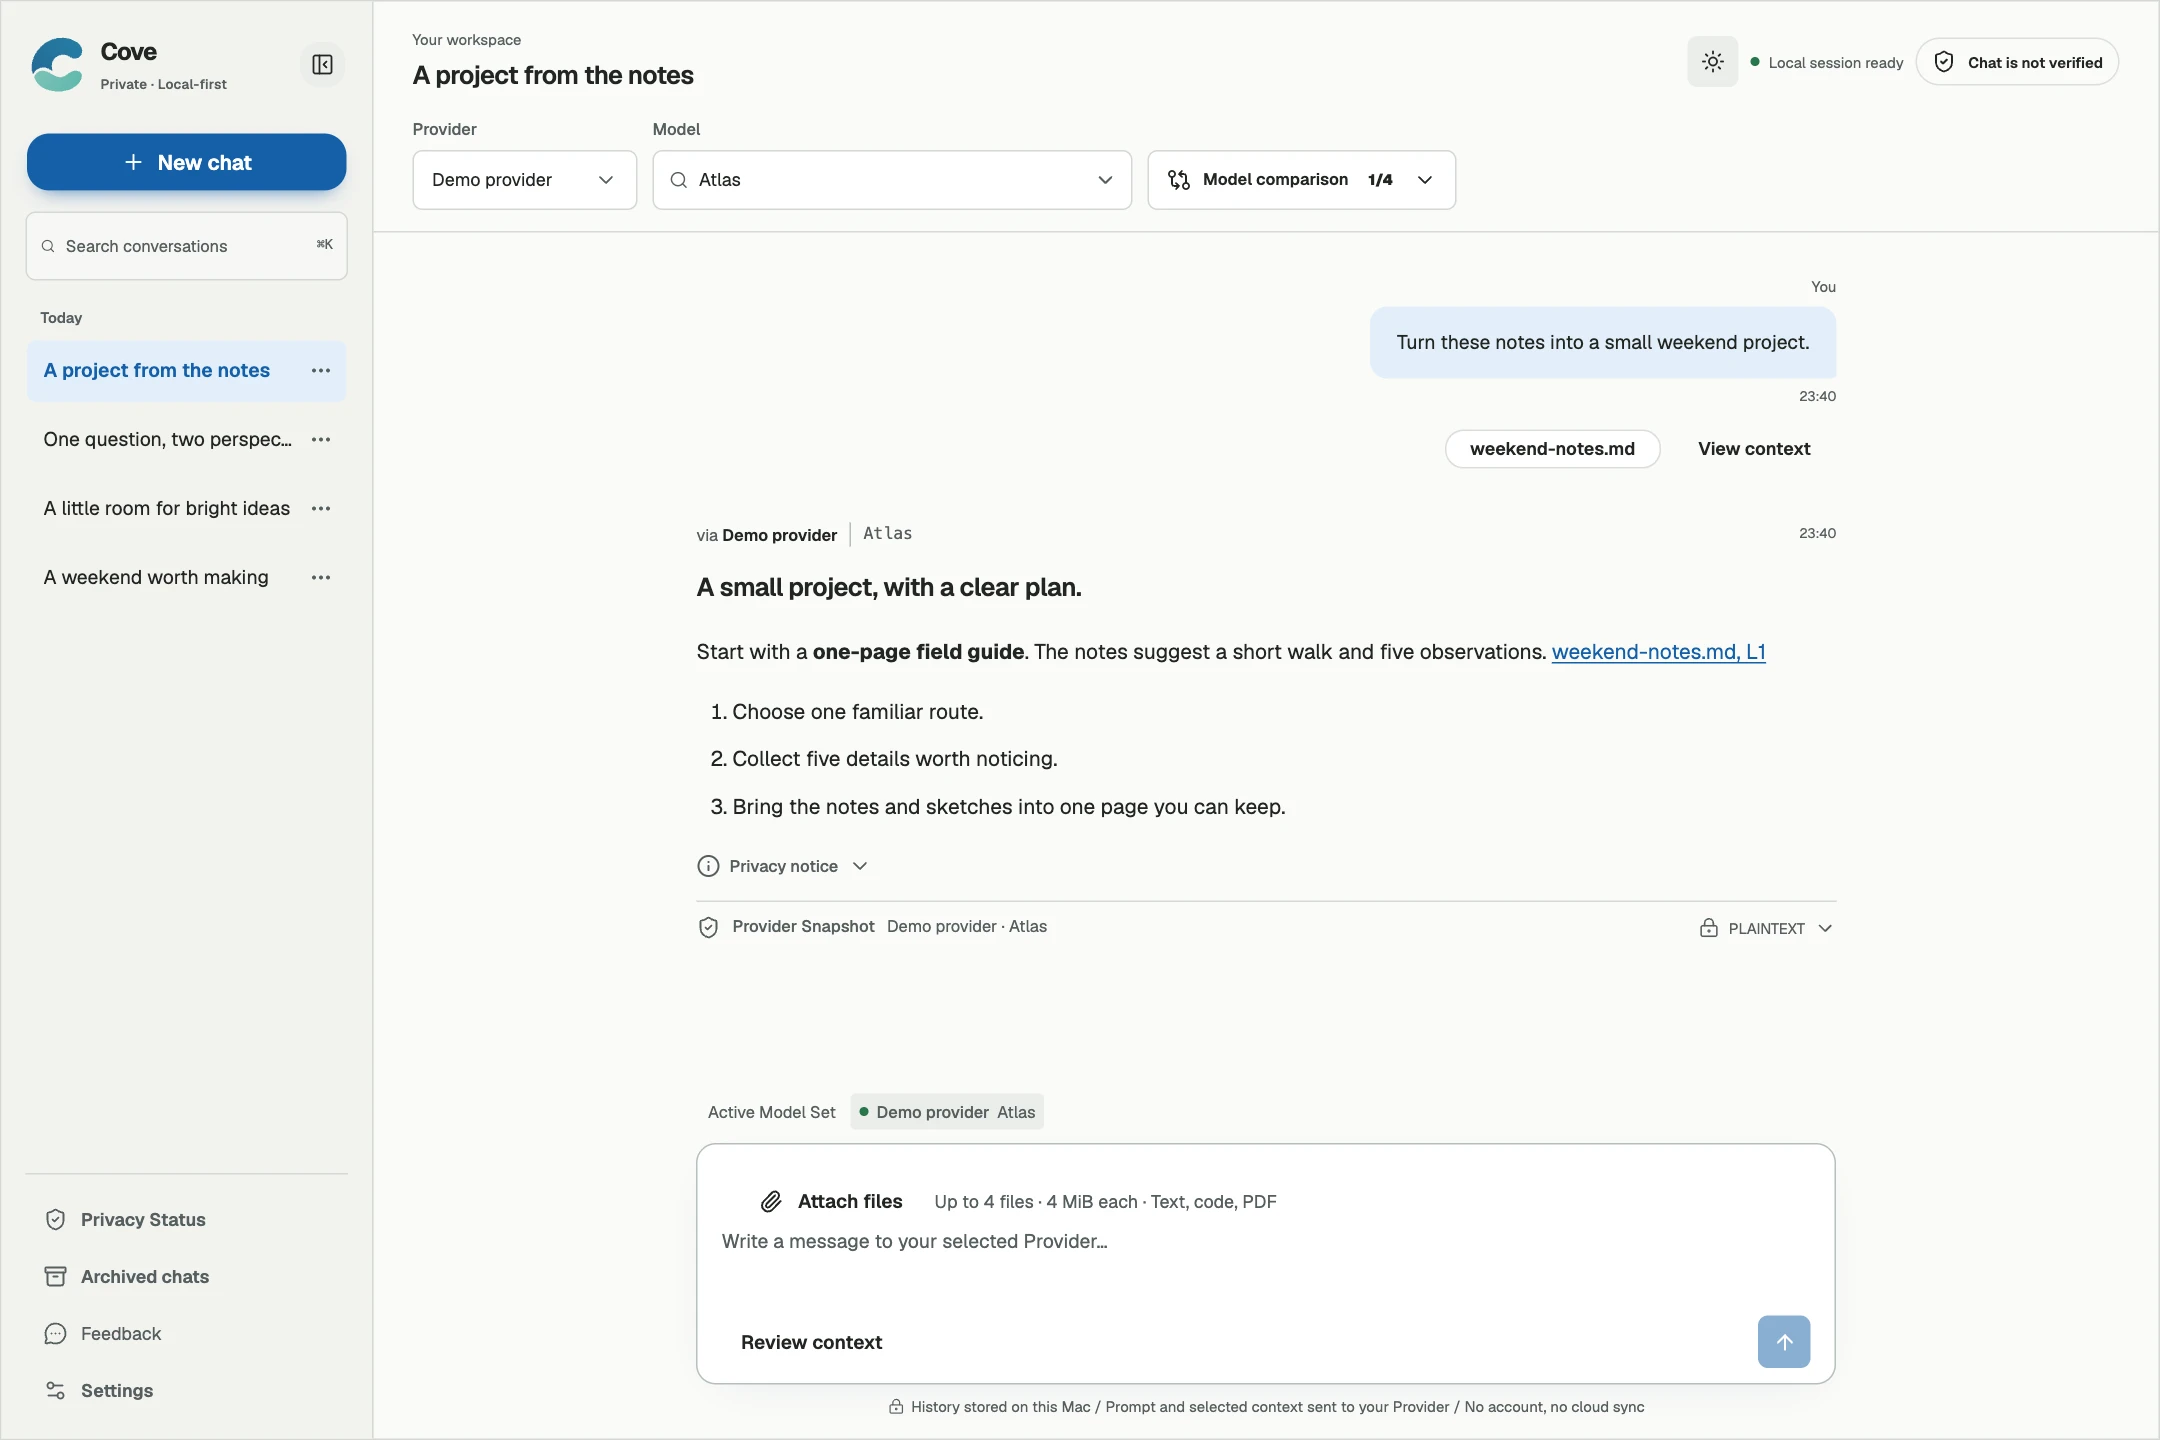
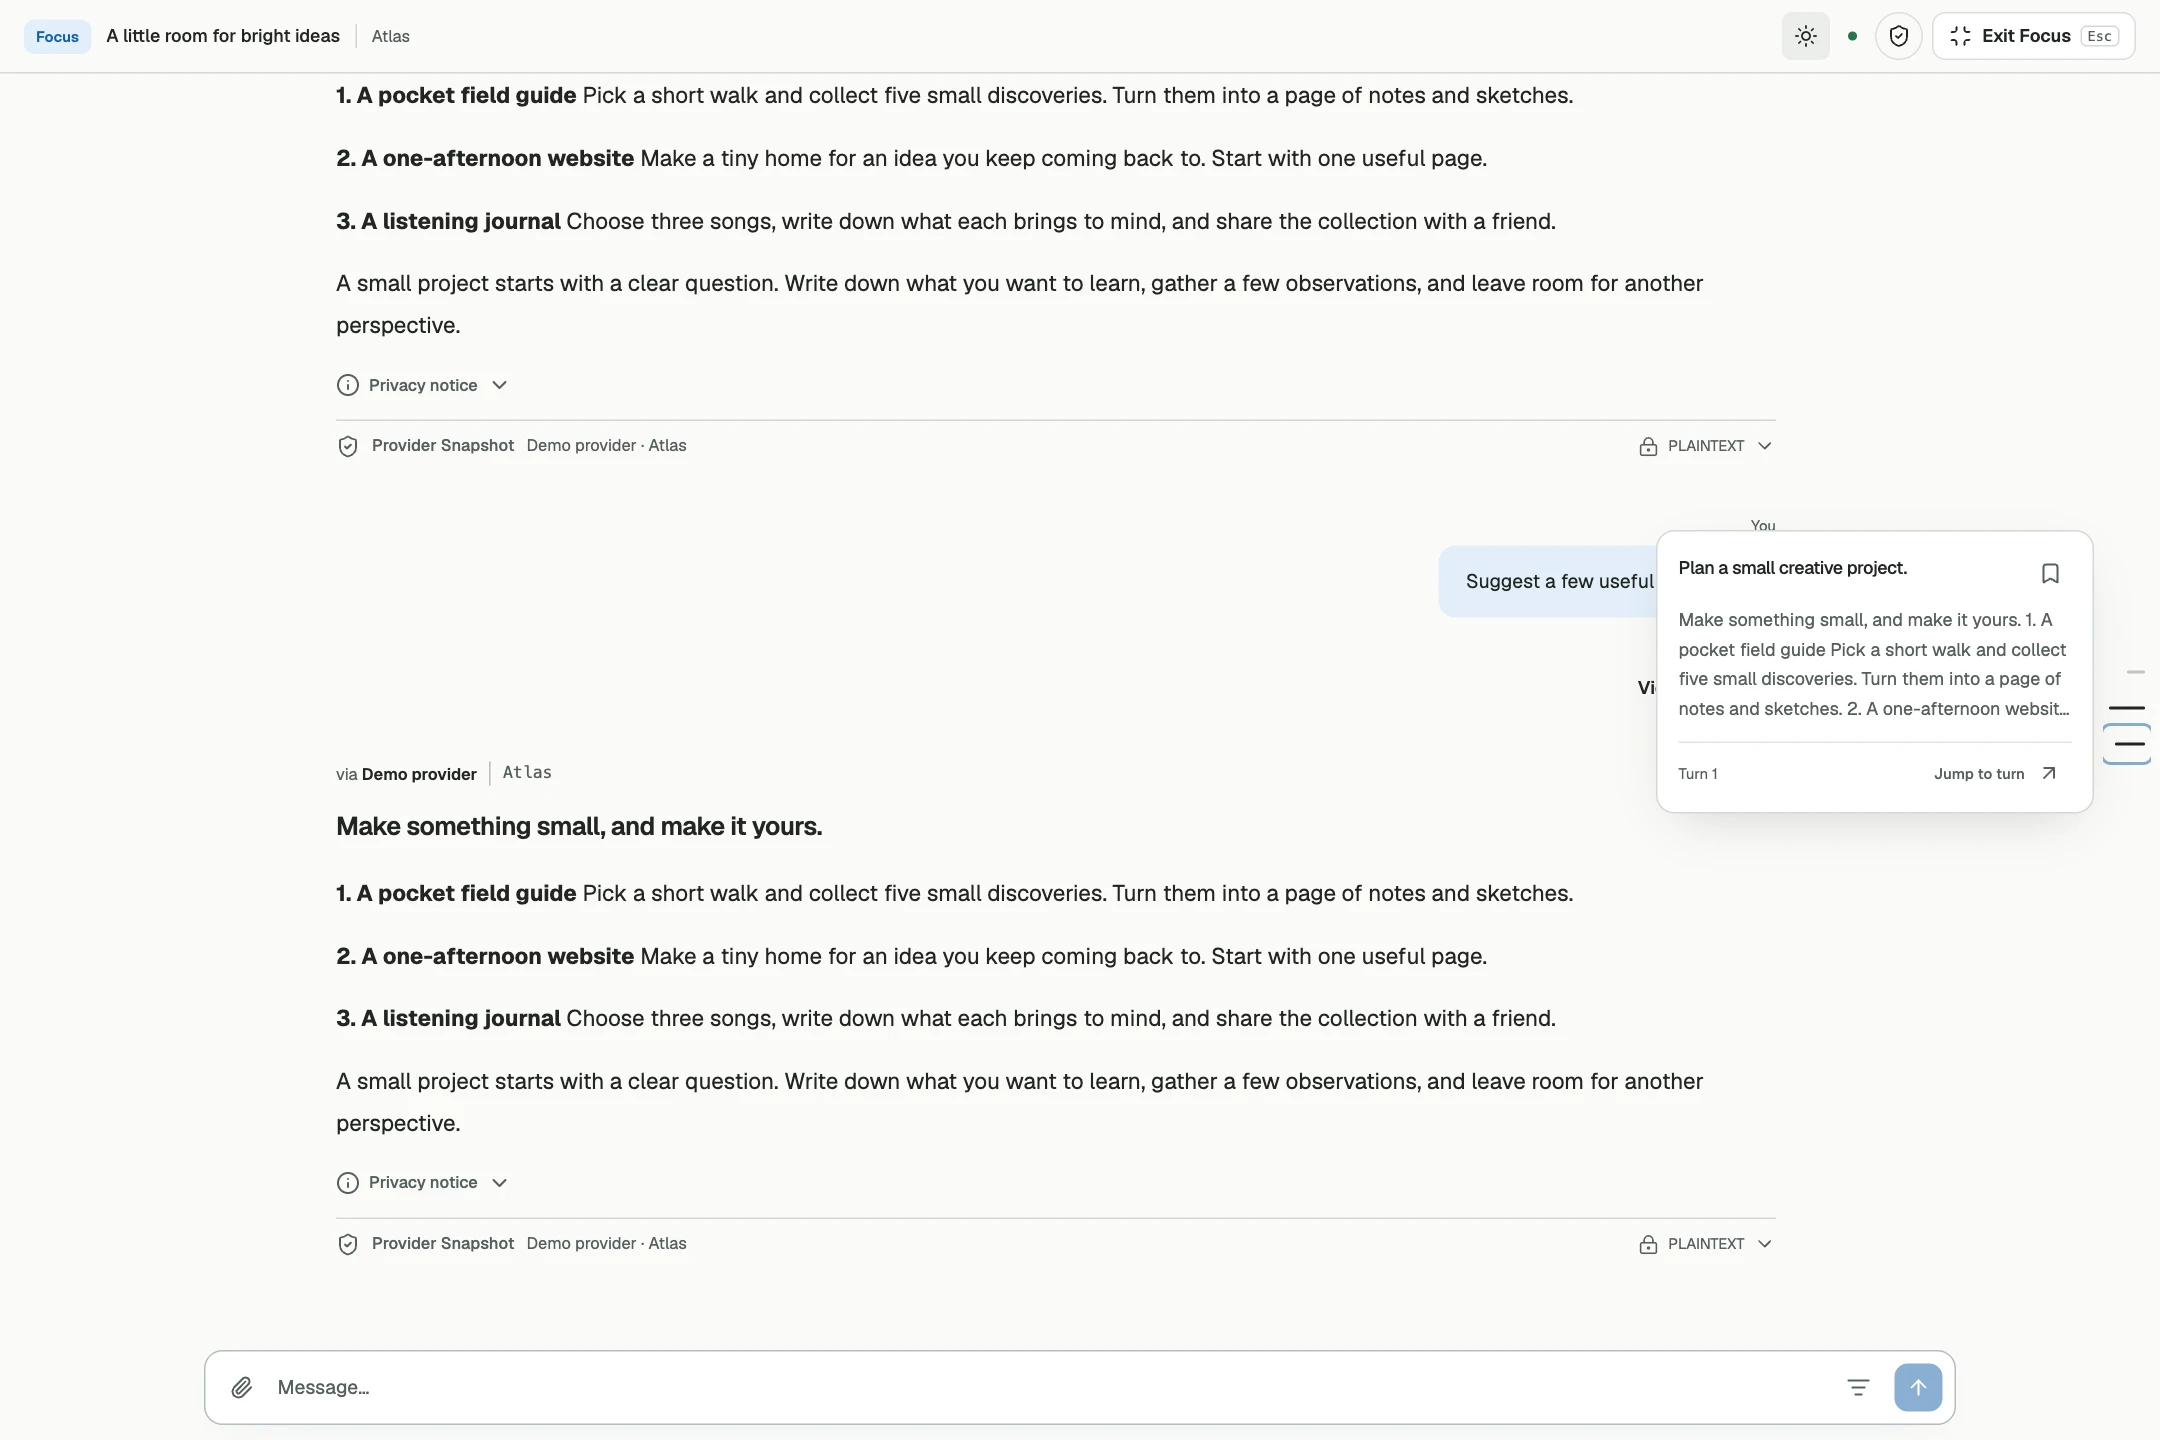
docs: refresh Cove profile for Beta 3

diff --git a/design/cove/index.html b/design/cove/index.html
@@ -17,7 +17,7 @@
     h1 { font-size: 59px; line-height: 1.08; letter-spacing: -.06em; margin: 22px 0; font-weight: 650; }
     h1 span { color: #5b799a; }
     .copy p { font-size: 16px; line-height: 1.65; color: #586b78; }
-    .workspace { position: absolute; left: 557px; top: 119px; width: 940px; margin: 0; border: 1px solid #d2dce4; border-radius: 14px; overflow: hidden; box-shadow: 0 25px 60px #345c7a20; transform: rotate(-5deg); background: #fff; }
+    .workspace { position: absolute; left: 555px; top: 150px; width: 640px; margin: 0; border: 1px solid #d2dce4; border-radius: 14px; overflow: hidden; box-shadow: 0 25px 60px #345c7a20; transform: rotate(-3deg); background: #fff; }
     .workspace img { display: block; width: 100%; height: auto; }
     .requirements { position: absolute; left: 60px; bottom: 43px; margin: 0; color: #586b78; font-size: 11px; }
   </style>
@@ -26,12 +26,12 @@
   <main>
     <img class="logo" src="logo.png" width="2172" height="724" alt="Cove">
     <div class="copy">
-      <span class="badge">Public beta 2 · Now with file chat</span>
+      <span class="badge">Public beta 3 · Focus and bookmarks</span>
       <h1>A little more room<br><span>for your AI.</span></h1>
       <p>Your models. Your sources.<br>A workspace of your own.</p>
     </div>
-    <figure class="workspace"><img src="workspace.webp" width="2160" height="1440" alt="Actual Cove Beta 2 file chat, using sample source notes and a simulated reply."></figure>
-    <p class="requirements">0.1.0-beta.2 &nbsp;·&nbsp; Apple Silicon &nbsp;·&nbsp; macOS 13+</p>
+    <figure class="workspace"><img src="workspace.webp" width="2160" height="1440" alt="Actual Cove Focus mode, with timeline previews and synthetic conversation content."></figure>
+    <p class="requirements">0.1.0-beta.3 &nbsp;·&nbsp; Apple Silicon &nbsp;·&nbsp; macOS 13+</p>
   </main>
 </body>
 </html>

diff --git a/profile/README.md b/profile/README.md
@@ -5,7 +5,7 @@
 <p align="center">
   <a href="https://tokenfunplus.github.io/"><b>Website</b></a> &nbsp;·&nbsp;
   <a href="#what-were-building"><b>Our projects</b></a> &nbsp;·&nbsp;
-  <a href="https://github.com/tokenfunplus/cove/releases/tag/v0.1.0-beta.2"><b>Download Cove</b></a> &nbsp;·&nbsp;
+  <a href="https://github.com/tokenfunplus/cove/releases/tag/v0.1.0-beta.3"><b>Download Cove</b></a> &nbsp;·&nbsp;
   <a href="#build-with-us"><b>Build with us</b></a>
 </p>
 
@@ -17,15 +17,15 @@
 
 **AI chat for Mac · Public beta**
 
-<p><a href="https://tokenfunplus.github.io/cove/"><img src="https://raw.githubusercontent.com/tokenfunplus/.github/main/profile/assets/cove.png?v=3" width="100%" alt="Cove — a little more room for your AI. Blue and teal wave logo and the actual Beta 2 file-chat interface with sample notes and a simulated reply."></a></p>
+<p><a href="https://tokenfunplus.github.io/cove/"><img src="https://raw.githubusercontent.com/tokenfunplus/.github/main/profile/assets/cove.png?v=4" width="100%" alt="Cove — a little more room for your AI. Blue and teal wave logo and the actual Focus interface with timeline previews and synthetic conversation content."></a></p>
 
-Your models and source files, in one workspace. Compare up to four answers, choose one to continue with, and make Cove yours with four workspace skins. Beta 2 adds text, Markdown, code, and text-based PDF attachments, with source previews and citations.
+Your models and source files, in one workspace. Compare up to four answers, choose one to continue with, and make Cove yours with four workspace skins. Beta 3 adds Focus mode, a conversation timeline with bookmark previews, and a native Launcher menu with optional login and keyboard shortcuts. Text, Markdown, code, and text-based PDF attachments retain source previews and citations.
 
-Conversations and source files are stored on your Mac. Prompts, selected context, and extracted file text go to your chosen provider. See the [privacy and trust model](https://github.com/tokenfunplus/cove/blob/main/docs/privacy.md).
+Conversations and source files are stored on your Mac. Timeline bookmarks stay in the browser profile where they were saved. Prompts, selected context, and extracted file text go to your chosen provider. See the [privacy and trust model](https://github.com/tokenfunplus/cove/blob/main/docs/privacy.md).
 
-**0.1.0-beta.2 · Apple Silicon · macOS 13+**
+**0.1.0-beta.3 · Apple Silicon · macOS 13+**
 
-[**Explore Cove ↗**](https://tokenfunplus.github.io/cove/) &nbsp;·&nbsp; [**Download beta ↓**](https://github.com/tokenfunplus/cove/releases/download/v0.1.0-beta.2/Cove-0.1.0-beta.2-arm64.dmg) &nbsp;·&nbsp; [**Source code ↗**](https://github.com/tokenfunplus/cove)
+[**Explore Cove ↗**](https://tokenfunplus.github.io/cove/) &nbsp;·&nbsp; [**Download beta ↓**](https://github.com/tokenfunplus/cove/releases/download/v0.1.0-beta.3/Cove-0.1.0-beta.3-arm64.dmg) &nbsp;·&nbsp; [**Source code ↗**](https://github.com/tokenfunplus/cove)
 
 ### Binance Studio
 
@@ -41,9 +41,9 @@ Personalize Binance Global with themes, layouts, and price effects. A Chrome / E
 
 | I want to… | Start here |
 | :--- | :--- |
-| Try Cove on my Mac | [Download the public beta](https://github.com/tokenfunplus/cove/releases/tag/v0.1.0-beta.2) · Apple Silicon, macOS 13+ |
-| See Cove in action | [Explore model comparison, file chat, and skins](https://tokenfunplus.github.io/cove/) |
-| Set up Cove or learn file chat | [Cove user guide](https://github.com/tokenfunplus/cove/blob/main/docs/user-guide.md) |
+| Try Cove on my Mac | [Download the public beta](https://github.com/tokenfunplus/cove/releases/tag/v0.1.0-beta.3) · Apple Silicon, macOS 13+ |
+| See Cove in action | [Explore Focus, timeline bookmarks, model comparison, and file chat](https://tokenfunplus.github.io/cove/) |
+| Set up Cove, Focus, or file chat | [Cove user guide](https://github.com/tokenfunplus/cove/blob/main/docs/user-guide.md) |
 | Customize my Binance workspace | [Binance Studio installation guide](https://tokenfunplus.github.io/binance-studio/#install) |
 | Explore what's open | [Browse our public repositories](https://github.com/orgs/tokenfunplus/repositories?type=public) |
 | Report a bug or suggest an improvement | [Cove issues](https://github.com/tokenfunplus/cove/issues) · [Binance Studio issues](https://github.com/tokenfunplus/binance-theme/issues) |

diff --git a/README.md b/README.md
@@ -14,7 +14,7 @@ The public organization homepage lives in [profile/README.md](profile/README.md)
 
 The homepage uses the PNG files in `profile/assets/`. Editable SVG sources for the organization hero and Binance Studio card live in `design/`. The organization artwork uses the warm amber palette of the existing avatar.
 
-The Cove cover is composed in `design/cove/index.html`. It pairs the original ImageGen logo lockup with an actual Beta 2 file-chat capture from [`tokenfunplus.github.io/docs/cove/assets/files-light.webp`](https://github.com/tokenfunplus/tokenfunplus.github.io/blob/cd3fc273d4f0035751ae1fdedbfbdef9e0393310/docs/cove/assets/files-light.webp), captured at app commit `d82c39f`. The sample notes and model reply are synthetic; the capture contains no personal conversations or provider credentials. The wave mark matches the identity introduced in Cove Beta 2. The self-hosted Geist font and its SIL Open Font License are included in `design/cove/`.
+The Cove cover is composed in `design/cove/index.html`. It pairs the original logo lockup with an actual Focus/timeline capture from UI commit `22441b6`, included in Cove Beta 3 source `23503cd`. The conversation and provider replies are synthetic and use an isolated Local Service; the capture contains no personal history or real credentials. The wave mark matches the identity introduced in Beta 2. The self-hosted Geist font and its SIL Open Font License are included in `design/cove/`.
 
 With Playwright available to Node, run `node design/cove/render.cjs` to render the 1200 × 630 PNG. Update the version in both the cover source and `profile/README.md` when a new beta ships. Keep the cover consistent with the application screenshots and published release.
 
